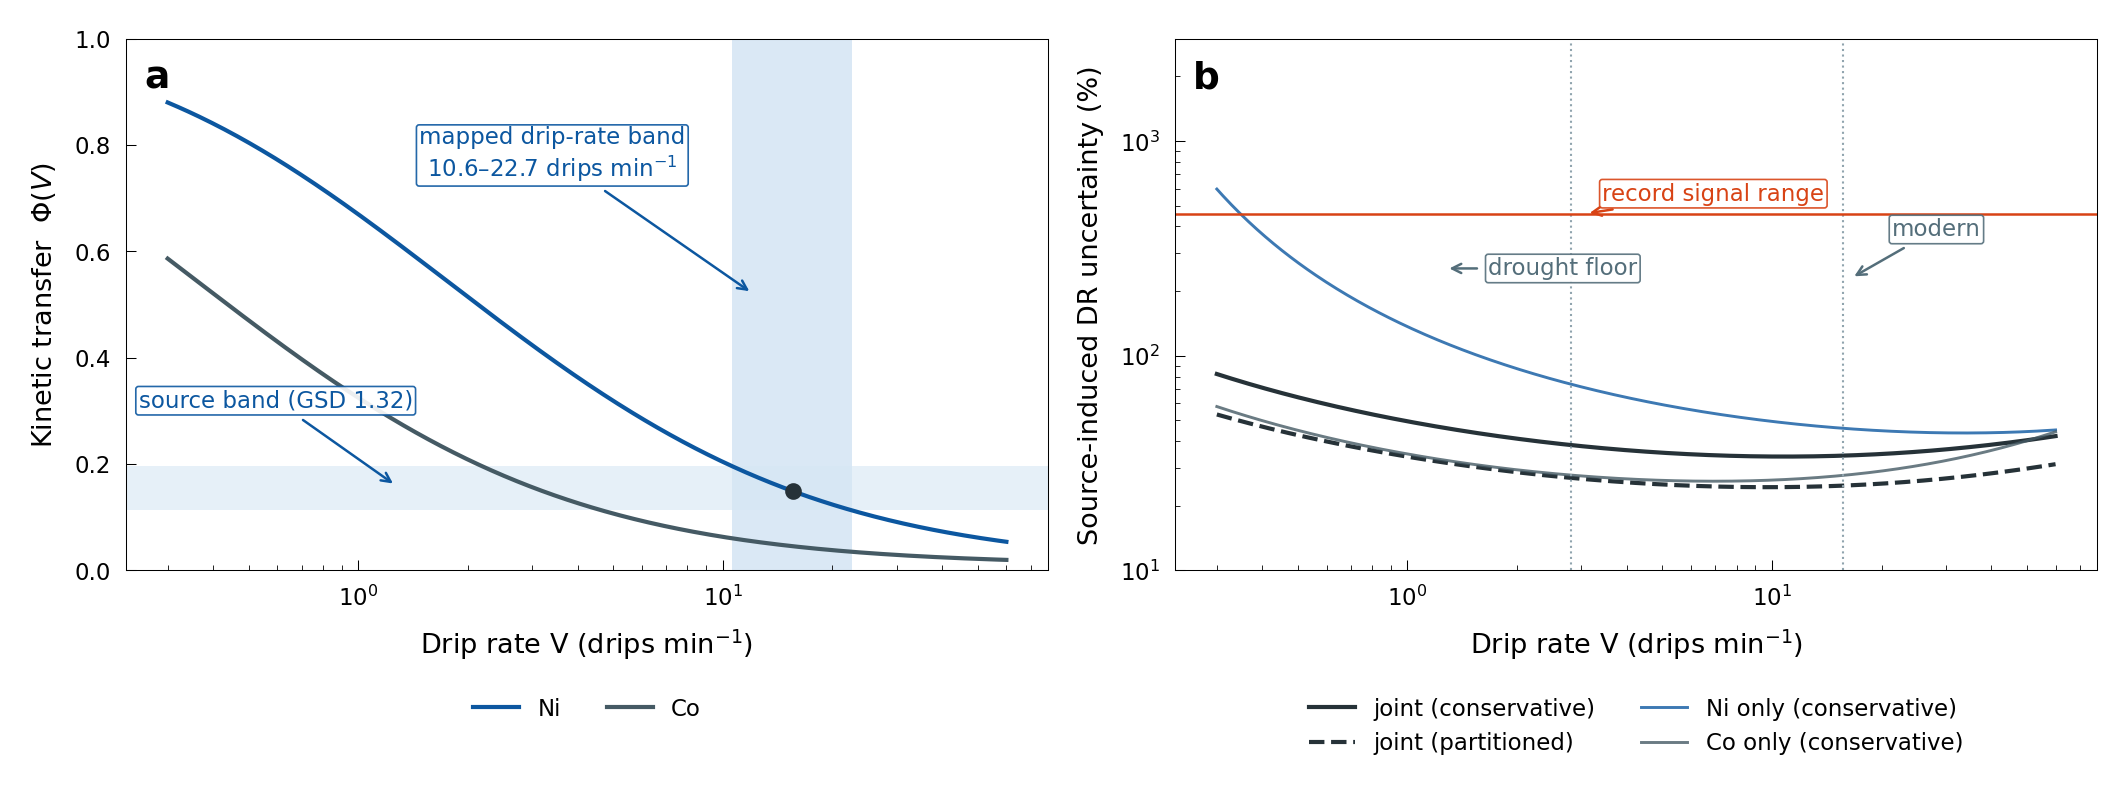
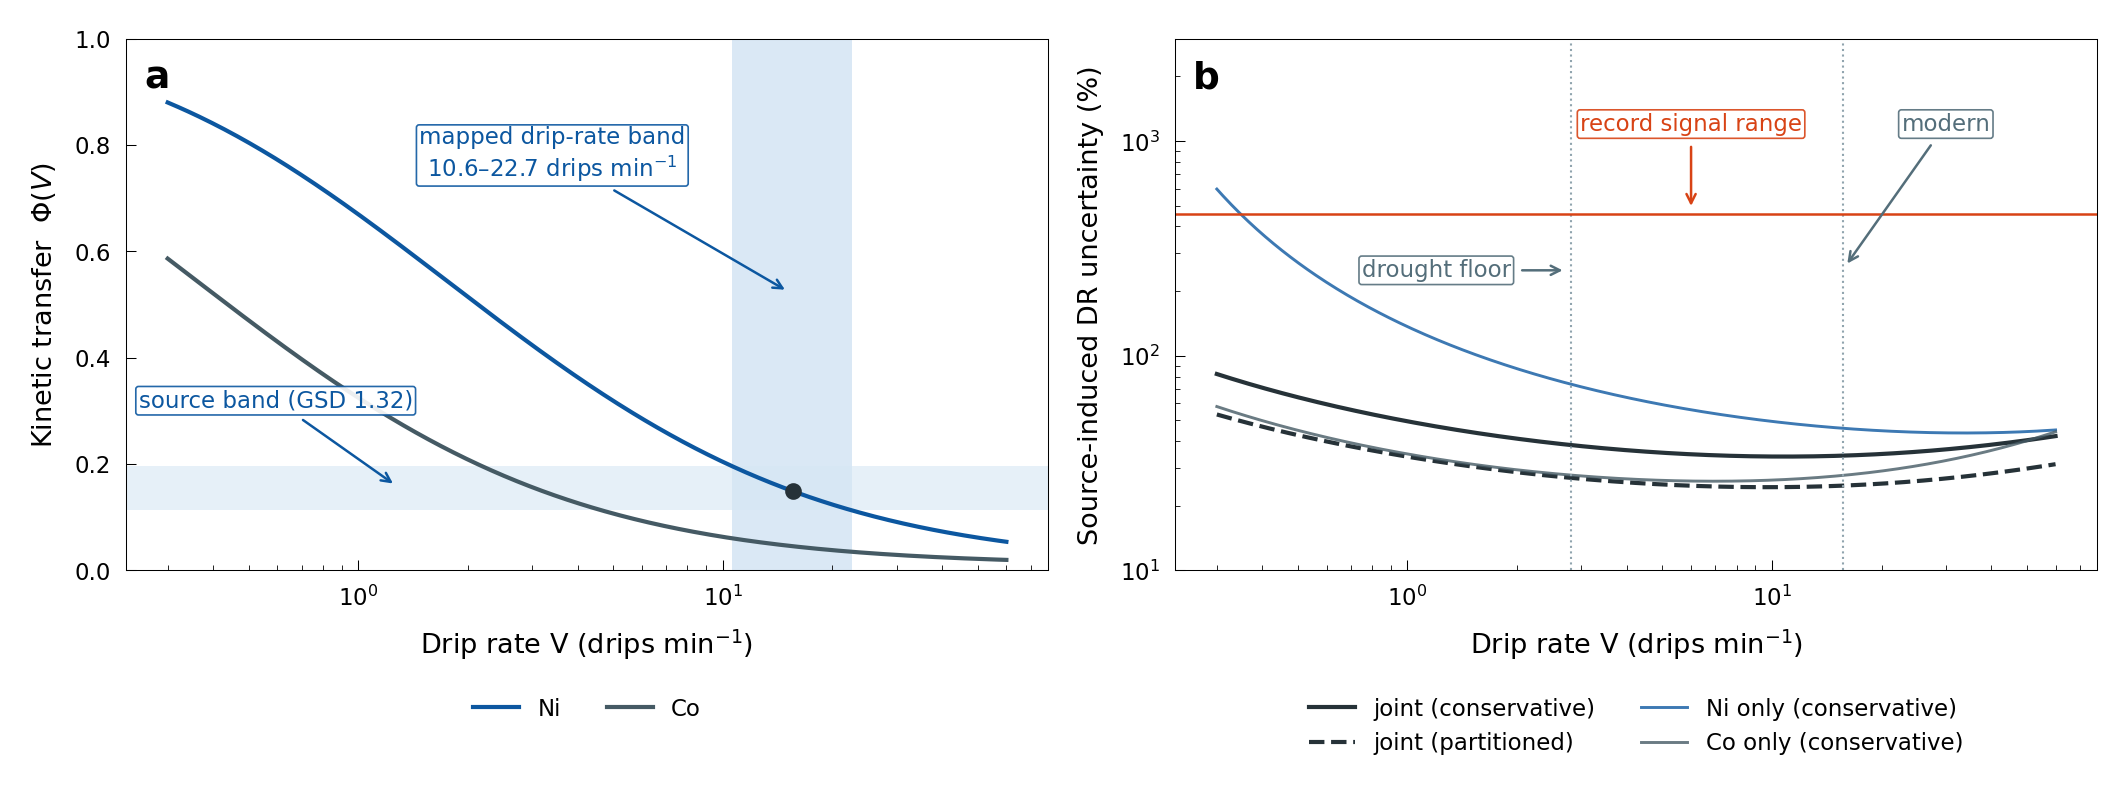
Tie Supp. Fig. 7 arrow tips to the record anchors
The drought-floor, modern and signal-range arrows now point at V_FLOOR,
V_MODERN and the signal-range line instead of fixed coordinates, so the
labels follow any re-anchoring of the record.

diff --git a/companion_analysis/source_variation_propagation.py b/companion_analysis/source_variation_propagation.py
@@ -175,7 +175,7 @@ def main():
     apply_style()
     fig, axs = plt.subplots(1, 2, figsize=(DOUBLE_COL, 2.5))
 
-    # (a) transfer curves + mapped source band at V = 14.14
+    # (a) transfer curves + mapped source band at the modern anchor V_MODERN
     ax = axs[0]
     for m, c in (("Ni", COL_NI), ("Co", COL_CO)):
         ax.plot(Vgrid, phi_of_V(Vgrid, **PARAMS[m]), color=c, lw=1.0, label=m)
@@ -191,10 +191,10 @@ def main():
     ax.axvspan(v_lo, v_hi, color=COL_TEAL_200, alpha=0.9, lw=0, zorder=0)
     ax.plot([V_MODERN], [phi_ref], "o", ms=3, color=COL_BG_900, zorder=5)
     label_bubble(ax, f"source band (GSD {np.exp(sig):.2f})",
-                 xy=(1.3, 0.1544), xytext=(0.5935, 0.3191), va="center",
+                 xy=(1.3, 0.5 * (band[0] + band[1])), xytext=(0.5935, 0.3191), va="center",
                  color=COL_NI, bubble_ec=COL_NI, arrow_color=COL_NI)
     label_bubble(ax, f"mapped drip-rate band\n{v_lo:.1f}\u2013{v_hi:.1f} drips min$^{{-1}}$",
-                 xy=(12.35, 0.5162), xytext=(3.407, 0.7823), va="center",
+                 xy=(np.sqrt(v_lo * v_hi), 0.52), xytext=(3.407, 0.7823), va="center",
                  color=COL_NI, bubble_ec=COL_NI, arrow_color=COL_NI)
     ax.set_ylim(0, 1.0)
     ax.set_xscale("log")
@@ -221,12 +221,13 @@ def main():
                 lw=0.7, alpha=0.8, label=f"{m} only (conservative)")
     for v in (V_FLOOR, V_MODERN):
         ax.axvline(v, color=COL_BG_300, lw=0.5, ls=":")
-    label_bubble(ax, "drought floor", xy=(1.236, 255.1), xytext=(2.669, 255), va="center", color=COL_BG_600, bubble_ec=COL_BG_600, arrow_color=COL_BG_600)
-    label_bubble(ax, "modern",        xy=(16.07, 224.3), xytext=(28.27, 387.4), va="center", color=COL_BG_600, bubble_ec=COL_BG_600, arrow_color=COL_BG_600)
+    # arrow tips are tied to the lines they label, so they follow any re-anchoring of the record
+    label_bubble(ax, "drought floor", xy=(V_FLOOR, 250.0), xytext=(1.2, 250.0), va="center", color=COL_BG_600, bubble_ec=COL_BG_600, arrow_color=COL_BG_600)
+    label_bubble(ax, "modern",        xy=(V_MODERN, 250.0), xytext=(30.0, 1200.0), va="center", color=COL_BG_600, bubble_ec=COL_BG_600, arrow_color=COL_BG_600)
     ax.axhline(100 * (np.exp(LN_SIGNAL) - 1), color=COL_DORANGE, lw=0.6)
     label_bubble(ax, "record signal range",
-                 xy=(3, 100 * (np.exp(LN_SIGNAL) - 1)),
-                 xytext=(6.907, 568.7), va="center",
+                 xy=(6.0, 100 * (np.exp(LN_SIGNAL) - 1)),
+                 xytext=(6.0, 1200.0), va="center",
                  color=COL_DORANGE, bubble_ec=COL_DORANGE, arrow_color=COL_DORANGE)
     ax.set_ylim(10, 3000)
     ax.set_xscale("log")
